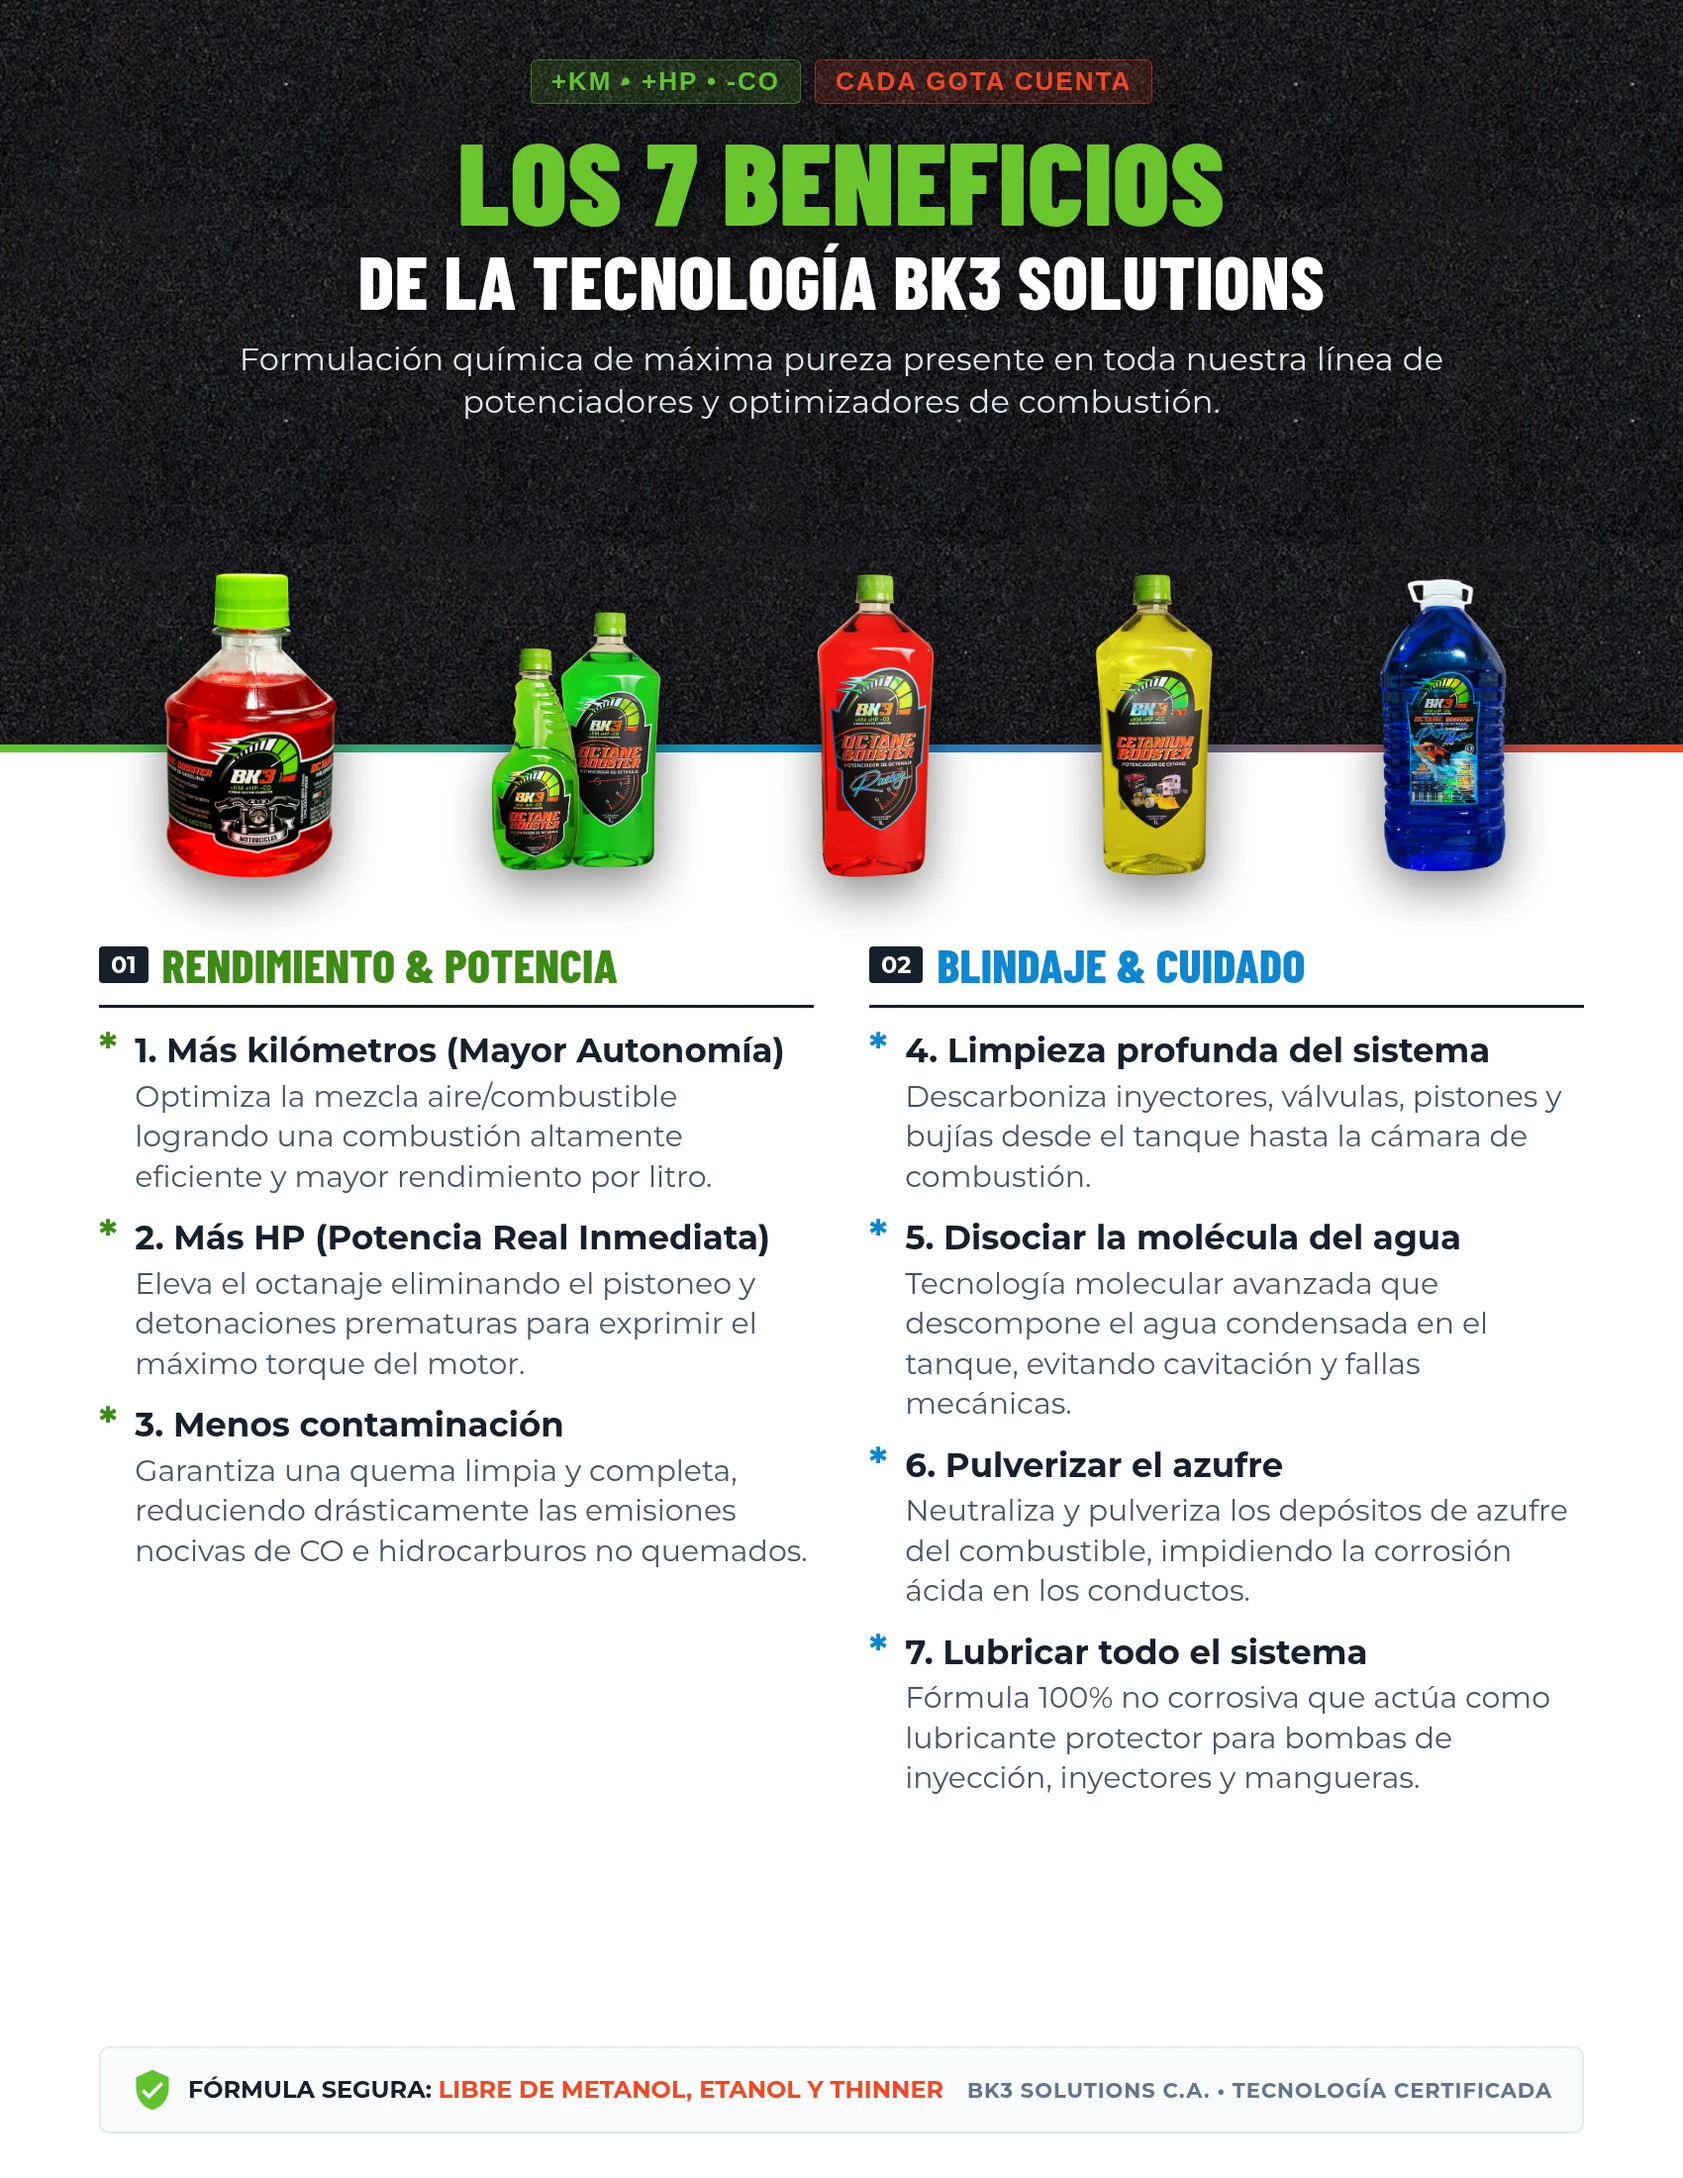
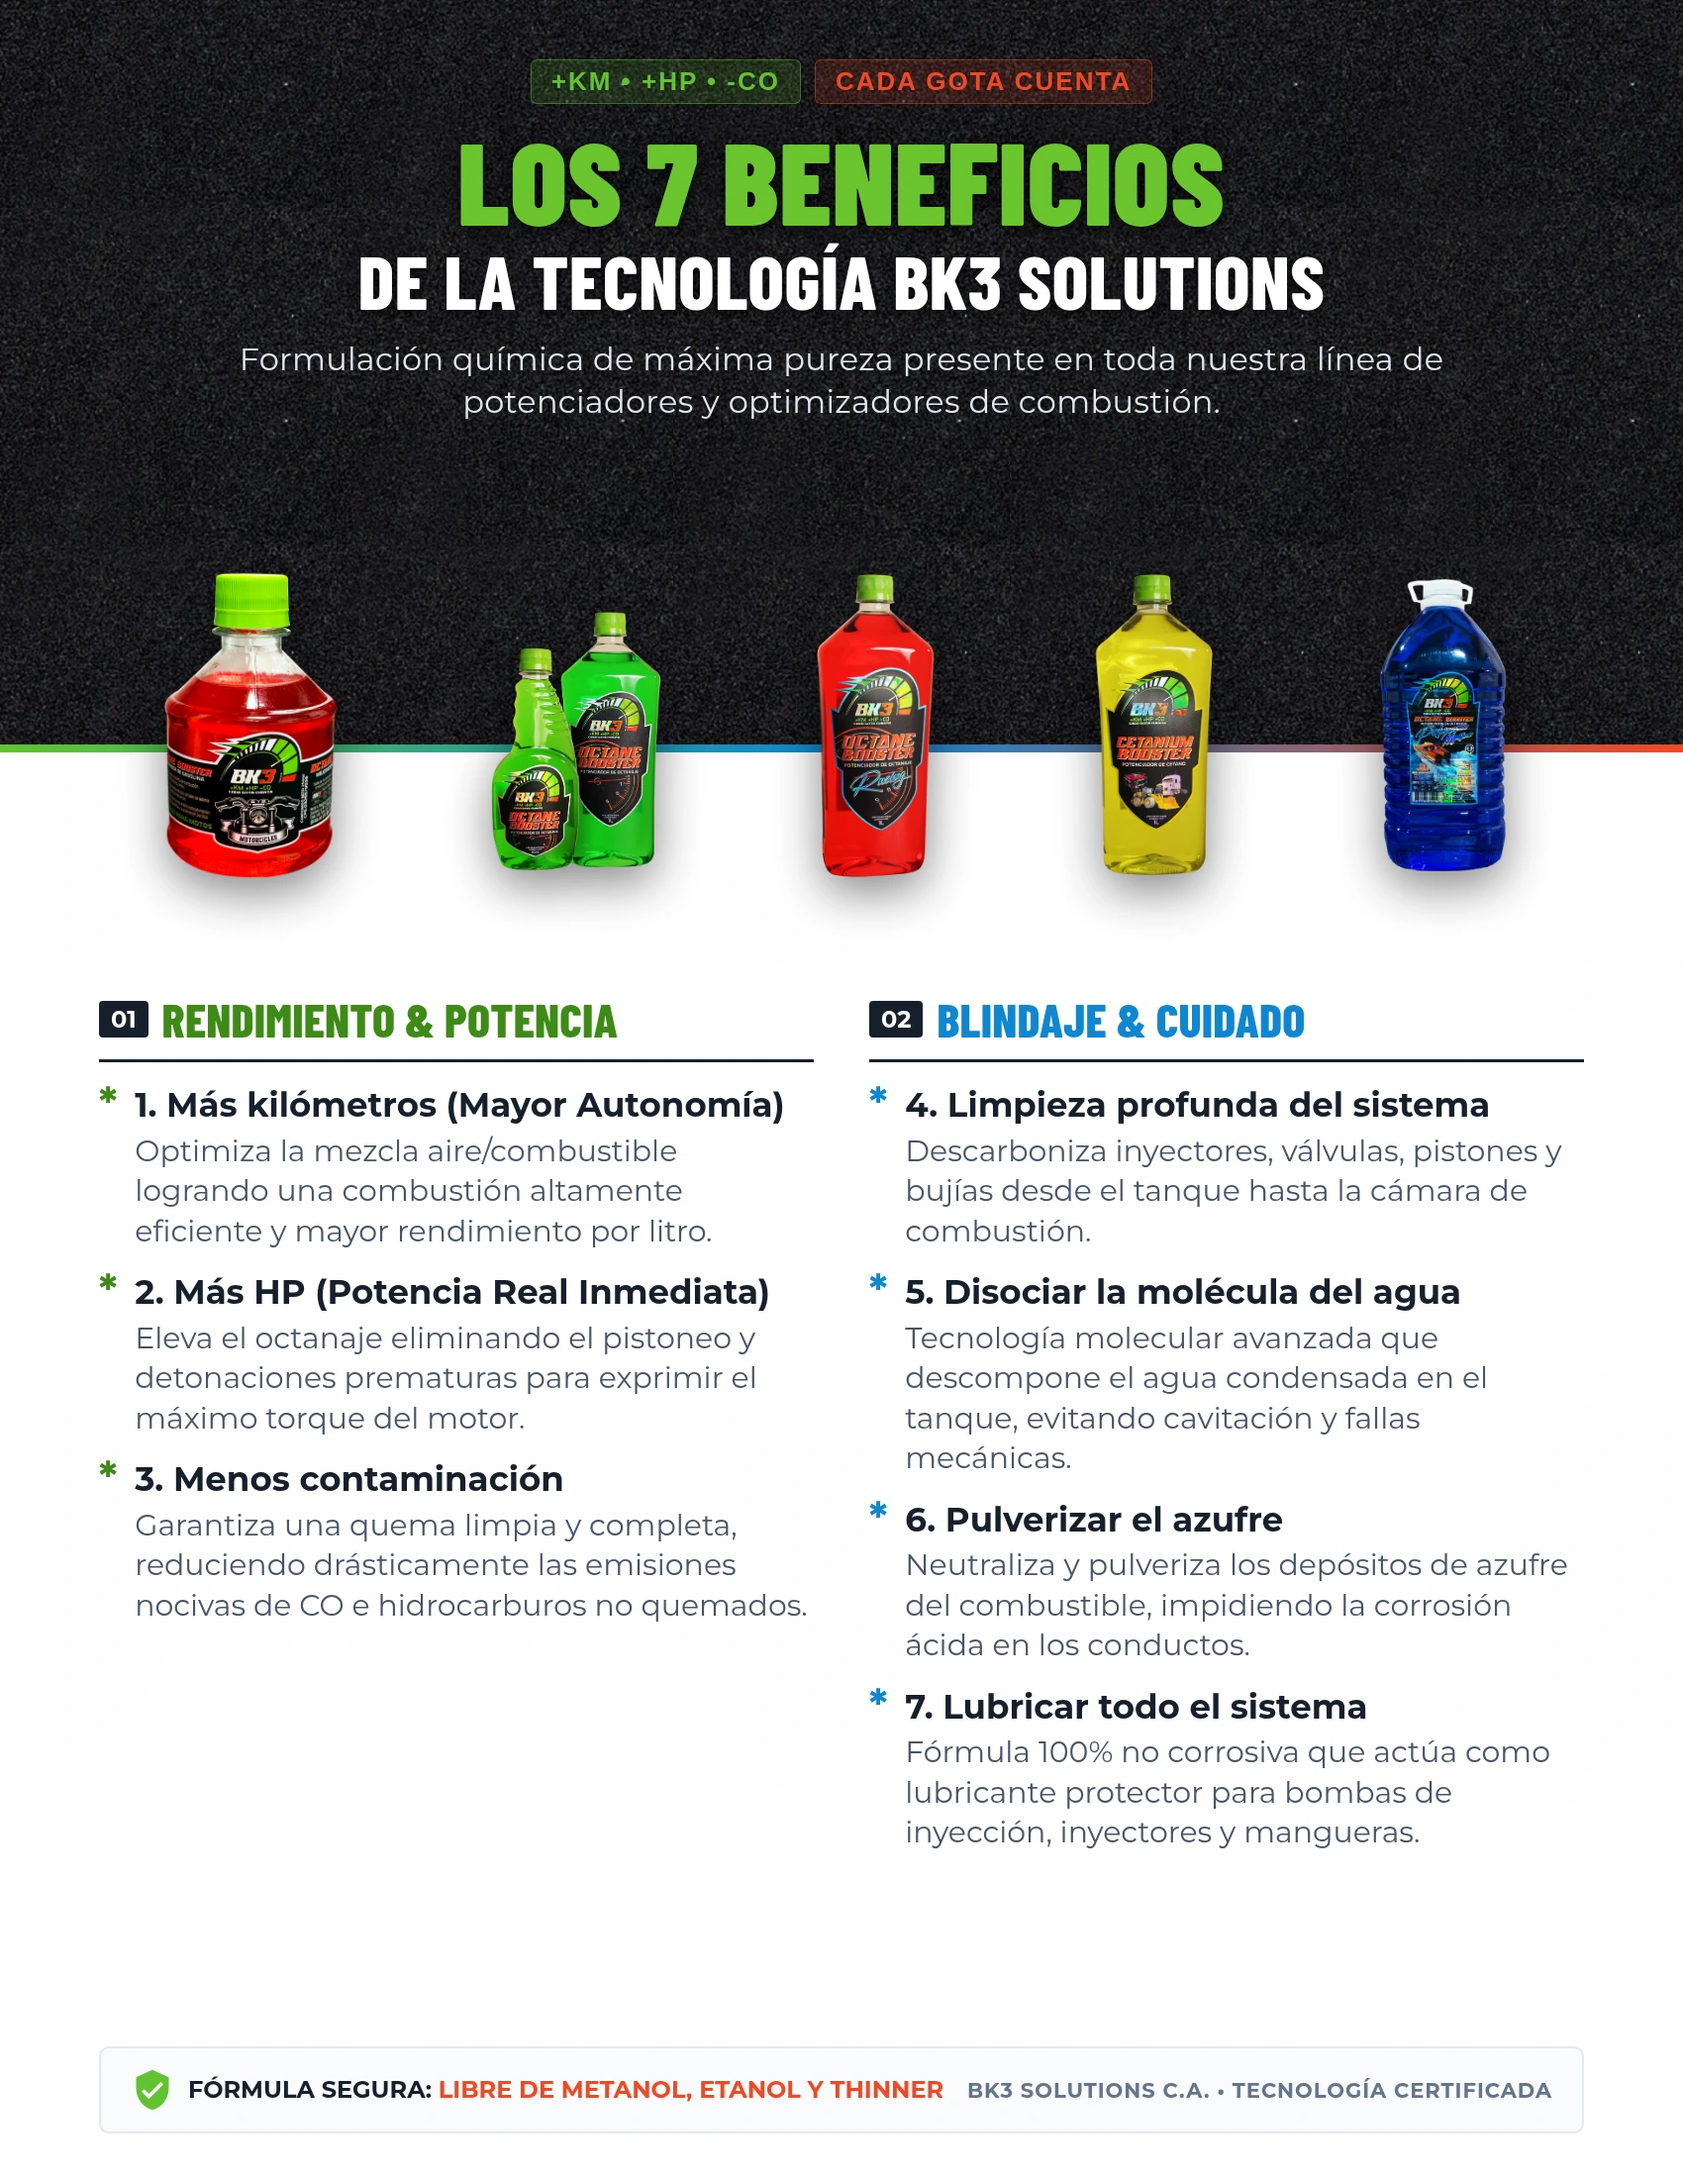
fix(page11): perfect baseline alignment, spacious margin, and collision-free labels for 5 products on Page 11

Changed region(s): [[0.4988, 0.4327, 0.9041, 0.8655], [0.0624, 0.4327, 0.4676, 0.7418]]

diff --git a/index.html b/index.html
@@ -7,7 +7,7 @@
   <link rel="preconnect" href="https://fonts.googleapis.com">
   <link rel="preconnect" href="https://fonts.gstatic.com" crossorigin>
   <link href="https://fonts.googleapis.com/css2?family=Barlow+Condensed:ital,wght@0,500;0,600;0,700;0,800;0,900;1,700&family=Montserrat:wght@400;500;600;700;800&family=Chakra+Petch:wght@500;600;700&display=swap" rel="stylesheet">
-  <link rel="stylesheet" href="css/style.css?v=20261116_polish_v2">
+  <link rel="stylesheet" href="css/style.css?v=20261116_labels_perfect_v4">
   <link rel="icon" type="image/png" href="assets/logos/BK3_solo_nombre_transparente.png">
 </head>
 <body>
@@ -335,32 +335,32 @@
              Página maestra de tecnología compartida para toda la gama BK3
              ================================================================== -->
         <div class="page page-art page-7-benefits" data-density="soft">
-          <img src="assets/pages_webp/page-beneficios.webp?v=20261116_clean" alt="Los 7 Beneficios Oficiales de la Tecnología BK3 Solutions" class="page-art-img" loading="lazy">
+          <img src="assets/pages_webp/page-beneficios.webp?v=20261116_v4" alt="Los 7 Beneficios Oficiales de la Tecnología BK3 Solutions" class="page-art-img" loading="lazy">
           
-          <!-- Hotspots interactivos de productos con animación de iluminación -->
-          <div class="benefit-product-spot spot-moto" style="left: 4.8%; top: 23.5%; width: 17%; height: 17%;" data-target-page="2" role="button" tabindex="0" title="Ver BK3 Moto">
+          <!-- Hotspots interactivos de productos calibrados milimétricamente con espaciado amplio -->
+          <div class="benefit-product-spot spot-moto" style="left: 14.92%; top: 25.8%; width: 13%; height: 18%;" data-target-page="2" role="button" tabindex="0" title="Ver BK3 Moto">
             <img src="assets/products/spot_moto.png" alt="BK3 Moto" class="benefit-spot-img">
             <span class="benefit-spot-label">BK3 MOTO</span>
           </div>
 
-          <div class="benefit-product-spot spot-clasico" style="left: 23.2%; top: 23.5%; width: 17%; height: 17%;" data-target-page="3" role="button" tabindex="0" title="Ver BK3 Clásico">
+          <div class="benefit-product-spot spot-clasico" style="left: 34.21%; top: 25.8%; width: 13.5%; height: 18%;" data-target-page="3" role="button" tabindex="0" title="Ver BK3 Clásico">
             <img src="assets/products/spot_clasico.png" alt="BK3 Clásico" class="benefit-spot-img">
             <span class="benefit-spot-label">BK3 CLÁSICO</span>
           </div>
 
-          <div class="benefit-product-spot spot-racing" style="left: 41.5%; top: 23.5%; width: 17%; height: 17%;" data-target-page="5" role="button" tabindex="0" title="Ver BK3 Racing">
+          <div class="benefit-product-spot spot-racing" style="left: 52.03%; top: 25.8%; width: 10%; height: 18%;" data-target-page="5" role="button" tabindex="0" title="Ver BK3 Racing">
             <img src="assets/products/spot_racing.png" alt="BK3 Racing" class="benefit-spot-img">
             <span class="benefit-spot-label">BK3 RACING</span>
           </div>
 
-          <div class="benefit-product-spot spot-cetane" style="left: 59.8%; top: 23.5%; width: 17%; height: 17%;" data-target-page="7" role="button" tabindex="0" title="Ver BK3 Cetanium">
+          <div class="benefit-product-spot spot-cetane" style="left: 68.41%; top: 25.8%; width: 10%; height: 18%;" data-target-page="7" role="button" tabindex="0" title="Ver BK3 Cetanium">
             <img src="assets/products/spot_cetane.png" alt="BK3 Cetanium" class="benefit-spot-img">
             <span class="benefit-spot-label">BK3 CETANIUM</span>
           </div>
 
-          <div class="benefit-product-spot spot-marine" style="left: 78.2%; top: 23.5%; width: 17%; height: 17%;" data-target-page="8" role="button" tabindex="0" title="Ver BK3 Performance Marine">
+          <div class="benefit-product-spot spot-marine" style="left: 85.66%; top: 25.8%; width: 12%; height: 18%;" data-target-page="8" role="button" tabindex="0" title="Ver BK3 Performance Marine">
             <img src="assets/products/spot_marine.png" alt="BK3 Marine" class="benefit-spot-img">
-            <span class="benefit-spot-label">PERFORMANCE<br>MARINE</span>
+            <span class="benefit-spot-label">PERFORMANCE MARINE</span>
           </div>
 
           <div class="page-satin-sheen"></div>

diff --git a/css/style.css b/css/style.css
@@ -790,14 +790,12 @@ html, body {
 
 /* --------------------------------------------------------------------------
    INTERACCIÓN Y ANIMACIÓN DE ILUMINACIÓN EN LOS 5 PRODUCTOS DE PÁGINA 11
+   Posicionamiento absoluto desacoplado para alineación y altura idéntica
    -------------------------------------------------------------------------- */
 .benefit-product-spot {
   position: absolute;
   z-index: 10;
-  display: flex;
-  flex-direction: column;
-  align-items: center;
-  justify-content: flex-end;
+  transform: translateX(-50%);
   cursor: pointer;
   pointer-events: auto;
   user-select: none;
@@ -806,10 +804,13 @@ html, body {
 }
 
 .benefit-spot-img {
-  height: 78%;
-  max-height: 78%;
-  width: auto;
+  position: absolute;
+  top: 1.5%;
+  left: 0;
+  width: 100%;
+  height: 79%;
   object-fit: contain;
+  object-position: bottom center;
   opacity: 0;
   transform: translateY(0) scale(1);
   transition: transform 0.3s cubic-bezier(0.16, 1, 0.3, 1), opacity 0.25s ease, filter 0.3s ease;
@@ -817,18 +818,30 @@ html, body {
 }
 
 .benefit-spot-label {
-  opacity: 1;
+  position: absolute;
+  bottom: 0;
+  left: 50%;
+  transform: translateX(-50%);
   color: #17202d;
   font-family: 'Montserrat', var(--font-body), sans-serif;
-  font-size: 0.52rem;
+  font-size: 0.44rem;
   font-weight: 800;
   text-transform: uppercase;
   text-align: center;
-  line-height: 1.1;
-  letter-spacing: 0.3px;
-  margin-top: 3px;
-  transition: color 0.25s ease, text-shadow 0.25s ease, transform 0.25s ease;
+  line-height: 1;
+  letter-spacing: 0.2px;
   white-space: nowrap;
+  transition: color 0.25s ease, text-shadow 0.25s ease, transform 0.25s ease;
+}
+
+.spot-cetane .benefit-spot-label {
+  font-size: 0.40rem;
+  letter-spacing: -0.1px;
+}
+
+.spot-marine .benefit-spot-label {
+  font-size: 0.34rem;
+  letter-spacing: -0.25px;
 }
 
 .benefit-product-spot:hover .benefit-spot-img,
@@ -839,7 +852,7 @@ html, body {
 
 .benefit-product-spot:hover .benefit-spot-label,
 .benefit-product-spot.touch-active .benefit-spot-label {
-  transform: translateY(-2px);
+  transform: translateX(-50%) translateY(-2px);
 }
 
 .benefit-product-spot.spot-moto:hover .benefit-spot-img,
@@ -1992,7 +2005,15 @@ html, body {
 
   /* Page 11 Benefits Hotspot Labels on Mobile */
   .benefit-spot-label {
-    font-size: 0.44rem;
-    letter-spacing: 0.2px;
+    font-size: 0.36rem;
+    letter-spacing: 0.1px;
+  }
+  .spot-cetane .benefit-spot-label {
+    font-size: 0.33rem;
+    letter-spacing: -0.1px;
+  }
+  .spot-marine .benefit-spot-label {
+    font-size: 0.28rem;
+    letter-spacing: -0.25px;
   }
 }

diff --git a/generate_7_beneficios_global.html b/generate_7_beneficios_global.html
@@ -178,7 +178,7 @@
       height: 1440px;
       background: #ffffff;
       z-index: 2;
-      padding: 185px 100px 35px 100px;
+      padding: 240px 100px 35px 100px;
     }
 
     .benefits-grid {
